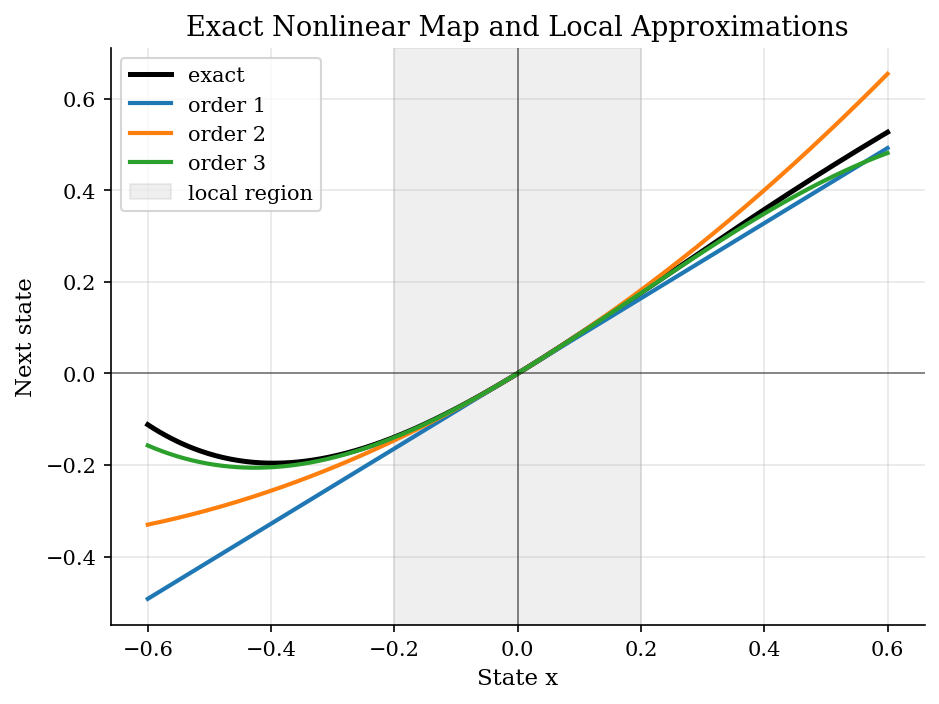
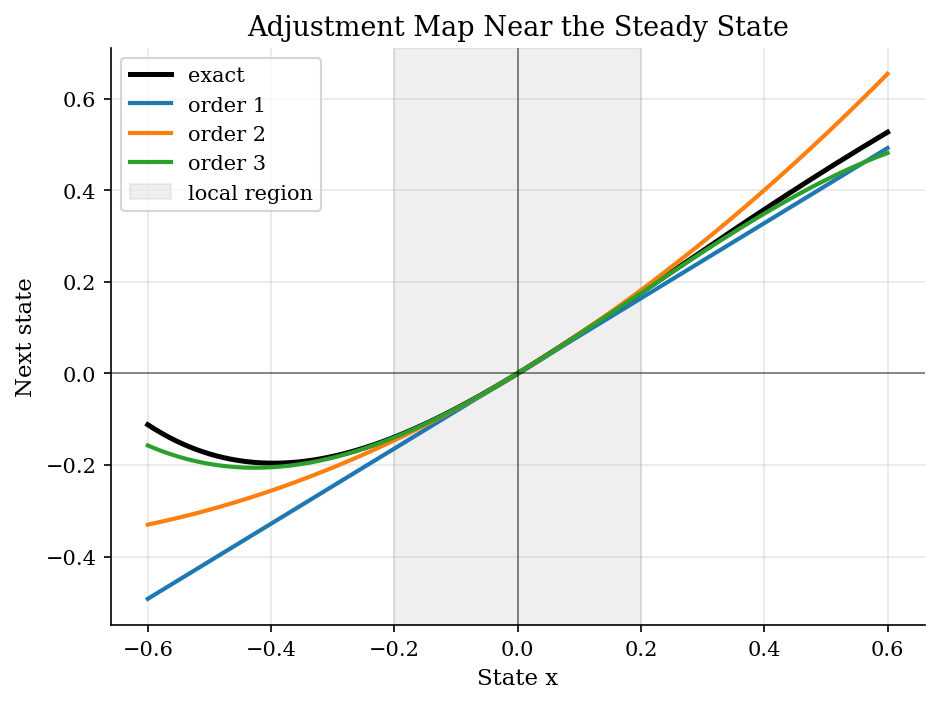
Revise perturbation linearization tutorial

Changed region(s): [[0.1853, 0.0, 0.8956, 0.0625]]

diff --git a/computational-methods/perturbation-linearization/run.py b/computational-methods/perturbation-linearization/run.py
@@ -1,10 +1,9 @@
 #!/usr/bin/env python3
-"""Perturbation around a steady state for nonlinear dynamics.
+"""Perturbation around a macro steady state.
 
-The tutorial compares first-, second-, and third-order local approximations to a
-nonlinear transition rule. It is intentionally small, so the local nature of
-perturbation methods is visible in both approximation errors and impulse
-responses.
+The tutorial compares first-, second-, and third-order local approximations to
+a nonlinear state transition. The example stays small so readers can see how
+local Taylor terms change impulse responses near a steady state.
 """
 
 import sys
@@ -125,34 +124,44 @@ def main() -> None:
     )
 
     report = ModelReport(
-        "Perturbation Around a Steady State",
-        "Local Taylor approximations for nonlinear economic dynamics and impulse responses.",
+        "Aggregate Adjustment Around a Steady State",
+        "Taylor perturbations for nonlinear macro dynamics and impulse responses.",
         include_reproduce=False,
         show_figure_captions=False,
     )
 
     report.add_overview(
-        "Macroeconomic models are often solved near a deterministic steady state. The local "
-        "object is a law of motion for deviations from that point: after a productivity, demand, "
-        "or policy shock, how does the state return toward its steady value? Perturbation "
-        "methods approximate that law of motion with a Taylor expansion.\n\n"
-        "The first-order case is the familiar linearization. It is fast and gives transparent "
-        "impulse responses, but it removes curvature and makes positive and negative shocks "
-        "mirror images. Higher-order perturbations add curvature and asymmetry while remaining "
-        "local. The exact nonlinear transition rule is kept available below so the cost of that "
-        "locality is visible."
+        "A macro model often asks what happens after an economy is pushed away from its "
+        "steady state. Think of a productivity surprise, a demand shock, or a policy change "
+        "that moves a state variable above its normal level. The researcher wants the path "
+        "back to steady state and wants to know whether an equally sized negative shock would "
+        "unwind in the same way.\n\n"
+        "The hard part is that the full nonlinear law of motion may be expensive to solve or "
+        "awkward to interpret. Perturbation replaces that law with a Taylor approximation near "
+        "the steady state. First order gives the familiar linearized impulse response. Higher "
+        "orders keep local curvature, so positive and negative shocks can produce different "
+        "adjustment paths. This tutorial keeps the exact nonlinear transition in view, which "
+        "lets us see what the local approximation gains and what it misses."
     )
 
     report.add_equations(
         r"""
-Let $x_t$ be a scalar deviation from the deterministic steady state, normalized
-so that $x=0$ is the steady state. The exact transition rule is:
+Let $x_t$ be a scalar deviation from the deterministic steady state. The
+steady state is normalized to $x=0$. The exact nonlinear transition is:
 
 $$
 F(x) = \rho x + \gamma x^2 - \eta x^3 + \kappa x^4.
 $$
 
-The first three perturbation approximations around zero are:
+The coefficients are chosen to create persistent adjustment, local curvature,
+and asymmetric responses. A Taylor perturbation of order $n$ around zero keeps
+the derivatives through order $n$:
+
+$$
+F_n(x) = \sum_{j=1}^{n} \frac{F^{(j)}(0)}{j!} x^j.
+$$
+
+For the first three orders in this example:
 
 $$
 \begin{aligned}
@@ -173,32 +182,34 @@ $$
     report.add_model_setup(
         "| Object | Value |\n"
         "|--------|-------|\n"
-        f"| Persistence $\\rho$ | {RHO:.2f} |\n"
-        f"| Quadratic term $\\gamma$ | {GAMMA:.2f} |\n"
-        f"| Cubic term $\\eta$ | {ETA:.2f} |\n"
-        f"| Fourth-order term $\\kappa$ | {KAPPA:.2f} |\n"
-        f"| Shock size | {SHOCK_SIZE:.2f} |\n"
+        f"| Persistence $\\rho$ | {RHO:.2f}, so deviations decay gradually |\n"
+        f"| Quadratic term $\\gamma$ | {GAMMA:.2f}, adding local curvature |\n"
+        f"| Cubic term $\\eta$ | {ETA:.2f}, changing the speed of large responses |\n"
+        f"| Fourth-order term $\\kappa$ | {KAPPA:.2f}, left out by third order |\n"
+        f"| Shock size | {SHOCK_SIZE:.2f} in either direction |\n"
         f"| IRF periods | {periods} |"
     )
 
     report.add_solution_method(
-        "The exercise treats the exact transition rule as a known benchmark, then truncates its "
-        "Taylor expansion at different orders. Errors are measured both pointwise and after "
-        "iterating the approximated law of motion forward.\n\n"
+        "The calculation treats the exact transition as a benchmark and asks how much of it a "
+        "local expansion recovers. The map error answers a numerical question: how close is the "
+        "approximated law of motion at nearby states? The impulse-response error answers the "
+        "economic question the researcher would usually care about: does the computed shock "
+        "path tell the same adjustment story as the nonlinear model?\n\n"
         "```text\n"
-        "Algorithm: local perturbation diagnostic\n"
-        "Input: exact law F(x), steady state x_bar = 0, approximation order n, shock epsilon\n"
-        "Output: local map errors, impulse-response errors, asymmetry diagnostic\n"
-        "1. Compute the Taylor coefficients of F around x_bar through order n\n"
-        "2. Define F_n(x) as the truncated local law of motion\n"
-        "3. Compare F_n(x) with F(x) on a local and a wider state interval\n"
-        "4. For x_0 = epsilon, iterate x_{t+1} = F_n(x_t) and compare with the exact path\n"
-        "5. Repeat for x_0 = -epsilon to check whether positive and negative shocks mirror\n"
-        "6. Interpret large errors as a warning about states far from the expansion point\n"
+        "Algorithm: perturbation check for a shock response\n"
+        "Input: nonlinear law F(x), steady state x_bar = 0, order n, shock epsilon\n"
+        "Output: approximate law F_n, map errors, IRF errors, asymmetry statistic\n"
+        "1. Differentiate F at x_bar and keep terms through order n\n"
+        "2. Build the local law F_n(x) from those Taylor coefficients\n"
+        "3. Compare F_n(x) with F(x) on a tight neighborhood and a wider interval\n"
+        "4. Starting from x_0 = epsilon, iterate x_{t+1} = F_n(x_t)\n"
+        "5. Repeat from x_0 = -epsilon and add the two response paths\n"
+        "6. Read nonzero sums as nonlinear asymmetry, not as linear adjustment\n"
         "```\n\n"
-        "This is the same logic used in larger DSGE applications: solve around a steady state, "
-        "then ask whether the local approximation is accurate enough for the shocks and states "
-        "the research question actually visits."
+        "Large DSGE systems apply the same idea to a vector of equilibrium conditions. This "
+        "scalar example strips that machinery away, leaving the main discipline: a local "
+        "solution is useful only for the shocks and states that stay near the expansion point."
     )
 
     fig1, ax1 = plt.subplots()
@@ -210,15 +221,15 @@ $$
     ax1.axvline(0.0, color="black", linewidth=0.8, alpha=0.5)
     ax1.set_xlabel("State x")
     ax1.set_ylabel("Next state")
-    ax1.set_title("Exact Nonlinear Map and Local Approximations")
+    ax1.set_title("Adjustment Map Near the Steady State")
     ax1.legend()
     report.add_figure(
         "figures/local-approximations.png",
         "Taylor approximations around the steady state",
         fig1,
         description=(
-            "All approximations agree at the steady state. Differences grow as the state moves "
-            "away from the expansion point."
+            "The curves agree at the steady state because each approximation is built there. "
+            "Away from zero, the missing curvature changes the next-period state."
         ),
     )
 
@@ -228,15 +239,16 @@ $$
         ax2.semilogy(np.abs(x_grid), np.maximum(error, 1e-14), label=f"order {order}")
     ax2.set_xlabel("Distance from steady state")
     ax2.set_ylabel("Absolute map error")
-    ax2.set_title("Local Accuracy Decays with Distance")
+    ax2.set_title("Approximation Error by Distance")
     ax2.legend()
     report.add_figure(
         "figures/local-errors.png",
         "Approximation error by distance from the expansion point",
         fig2,
         description=(
-            "Higher-order terms reduce local error, but no finite Taylor expansion is a global "
-            "solution. The question that matters is how far the model travels from the steady state."
+            "Higher-order terms lower error near the steady state. Error still rises with "
+            "distance, so the relevant accuracy check depends on the states reached by the "
+            "shock experiment."
         ),
     )
 
@@ -265,8 +277,8 @@ $$
         "Impulse responses under exact and approximated dynamics",
         fig3,
         description=(
-            "The first-order approximation is symmetric: changing the sign of the shock changes "
-            "only the sign of the response. Higher-order terms can capture asymmetric adjustment."
+            "The first-order path is symmetric by construction. Higher-order paths can let a "
+            "positive shock and a negative shock unwind at different speeds."
         ),
     )
 
@@ -285,8 +297,8 @@ $$
         "Nonlinear asymmetry in positive and negative responses",
         fig4,
         description=(
-            "For a purely linear model, positive and negative impulse responses cancel exactly. "
-            "A nonzero sum is a direct diagnostic for nonlinear asymmetry."
+            "In a linearized model, the positive and negative impulse responses cancel exactly. "
+            "A nonzero sum shows how much nonlinear asymmetry the local solution preserves."
         ),
     )
 
@@ -294,23 +306,26 @@ $$
         "tables/approximation-errors.csv",
         "Perturbation accuracy by order",
         format_table(table),
-        description="Map errors are computed directly; IRF errors compare each approximation to the exact path.",
+        description=(
+            "Map errors compare transition rules. IRF errors compare the full adjustment path "
+            "after the same shock."
+        ),
     )
 
     report.add_results(
-        "The first-order approximation is accurate very close to the steady state, but it misses "
-        "curvature and asymmetric responses. The second and third orders reduce local error and "
-        "track the nonlinear impulse responses more closely for the shock size used here. The "
-        "asymmetry plot is the clearest economic diagnostic: a linearized model forces the "
-        "positive and negative responses to cancel, even when the nonlinear economy does not."
+        "The first-order approximation works well in a tight neighborhood of the steady state, "
+        "but it misses the curvature that shapes asymmetric adjustment. Second and third order "
+        "terms reduce local map error and follow the nonlinear impulse responses more closely "
+        "for this shock size. The asymmetry plot gives the most direct economic reading: the "
+        "linearized model forces the positive and negative responses to cancel, while the "
+        "nonlinear economy does not."
     )
 
     report.add_takeaway(
-        "Linearization is often enough for small deviations, but its symmetry is a substantive "
+        "Linearization is often enough for small deviations, but its symmetry is an economic "
         "restriction. Higher-order perturbation adds curvature without solving the full global "
-        "model. The practical discipline is to check where the simulated or impulse-response "
-        "path actually goes. Local approximations are only as credible as the neighborhood they "
-        "are asked to cover."
+        "model. The practical check is simple: trace the simulated or impulse-response path and "
+        "ask whether it remains in the neighborhood where the local approximation is accurate."
     )
 
     report.add_references(

diff --git a/computational-methods/perturbation-linearization/README.md b/computational-methods/perturbation-linearization/README.md
@@ -1,23 +1,31 @@
-# Perturbation Around a Steady State
+# Aggregate Adjustment Around a Steady State
 
-> Local Taylor approximations for nonlinear economic dynamics and impulse responses.
+> Taylor perturbations for nonlinear macro dynamics and impulse responses.
 
 ## Overview
 
-Macroeconomic models are often solved near a deterministic steady state. The local object is a law of motion for deviations from that point: after a productivity, demand, or policy shock, how does the state return toward its steady value? Perturbation methods approximate that law of motion with a Taylor expansion.
+A macro model often asks what happens after an economy is pushed away from its steady state. Think of a productivity surprise, a demand shock, or a policy change that moves a state variable above its normal level. The researcher wants the path back to steady state and wants to know whether an equally sized negative shock would unwind in the same way.
 
-The first-order case is the familiar linearization. It is fast and gives transparent impulse responses, but it removes curvature and makes positive and negative shocks mirror images. Higher-order perturbations add curvature and asymmetry while remaining local. The exact nonlinear transition rule is kept available below so the cost of that locality is visible.
+The hard part is that the full nonlinear law of motion may be expensive to solve or awkward to interpret. Perturbation replaces that law with a Taylor approximation near the steady state. First order gives the familiar linearized impulse response. Higher orders keep local curvature, so positive and negative shocks can produce different adjustment paths. This tutorial keeps the exact nonlinear transition in view, which lets us see what the local approximation gains and what it misses.
 
 ## Equations
 
-Let $x_t$ be a scalar deviation from the deterministic steady state, normalized
-so that $x=0$ is the steady state. The exact transition rule is:
+Let $x_t$ be a scalar deviation from the deterministic steady state. The
+steady state is normalized to $x=0$. The exact nonlinear transition is:
 
 $$
 F(x) = \rho x + \gamma x^2 - \eta x^3 + \kappa x^4.
 $$
 
-The first three perturbation approximations around zero are:
+The coefficients are chosen to create persistent adjustment, local curvature,
+and asymmetric responses. A Taylor perturbation of order $n$ around zero keeps
+the derivatives through order $n$:
+
+$$
+F_n(x) = \sum_{j=1}^{n} \frac{F^{(j)}(0)}{j!} x^j.
+$$
+
+For the first three orders in this example:
 
 $$
 \begin{aligned}
@@ -37,50 +45,50 @@ $$
 
 | Object | Value |
 |--------|-------|
-| Persistence $\rho$ | 0.82 |
-| Quadratic term $\gamma$ | 0.45 |
-| Cubic term $\eta$ | 0.80 |
-| Fourth-order term $\kappa$ | 0.35 |
-| Shock size | 0.18 |
+| Persistence $\rho$ | 0.82, so deviations decay gradually |
+| Quadratic term $\gamma$ | 0.45, adding local curvature |
+| Cubic term $\eta$ | 0.80, changing the speed of large responses |
+| Fourth-order term $\kappa$ | 0.35, left out by third order |
+| Shock size | 0.18 in either direction |
 | IRF periods | 28 |
 
 ## Solution Method
 
-The exercise treats the exact transition rule as a known benchmark, then truncates its Taylor expansion at different orders. Errors are measured both pointwise and after iterating the approximated law of motion forward.
+The calculation treats the exact transition as a benchmark and asks how much of it a local expansion recovers. The map error answers a numerical question: how close is the approximated law of motion at nearby states? The impulse-response error answers the economic question the researcher would usually care about: does the computed shock path tell the same adjustment story as the nonlinear model?
 
 ```text
-Algorithm: local perturbation diagnostic
-Input: exact law F(x), steady state x_bar = 0, approximation order n, shock epsilon
-Output: local map errors, impulse-response errors, asymmetry diagnostic
-1. Compute the Taylor coefficients of F around x_bar through order n
-2. Define F_n(x) as the truncated local law of motion
-3. Compare F_n(x) with F(x) on a local and a wider state interval
-4. For x_0 = epsilon, iterate x_{t+1} = F_n(x_t) and compare with the exact path
-5. Repeat for x_0 = -epsilon to check whether positive and negative shocks mirror
-6. Interpret large errors as a warning about states far from the expansion point
+Algorithm: perturbation check for a shock response
+Input: nonlinear law F(x), steady state x_bar = 0, order n, shock epsilon
+Output: approximate law F_n, map errors, IRF errors, asymmetry statistic
+1. Differentiate F at x_bar and keep terms through order n
+2. Build the local law F_n(x) from those Taylor coefficients
+3. Compare F_n(x) with F(x) on a tight neighborhood and a wider interval
+4. Starting from x_0 = epsilon, iterate x_{t+1} = F_n(x_t)
+5. Repeat from x_0 = -epsilon and add the two response paths
+6. Read nonzero sums as nonlinear asymmetry, not as linear adjustment
 ```
 
-This is the same logic used in larger DSGE applications: solve around a steady state, then ask whether the local approximation is accurate enough for the shocks and states the research question actually visits.
+Large DSGE systems apply the same idea to a vector of equilibrium conditions. This scalar example strips that machinery away, leaving the main discipline: a local solution is useful only for the shocks and states that stay near the expansion point.
 
 ## Results
 
-All approximations agree at the steady state. Differences grow as the state moves away from the expansion point.
+The curves agree at the steady state because each approximation is built there. Away from zero, the missing curvature changes the next-period state.
 
 <img src="figures/local-approximations.png" alt="Taylor approximations around the steady state" width="80%">
 
-Higher-order terms reduce local error, but no finite Taylor expansion is a global solution. The question that matters is how far the model travels from the steady state.
+Higher-order terms lower error near the steady state. Error still rises with distance, so the relevant accuracy check depends on the states reached by the shock experiment.
 
 <img src="figures/local-errors.png" alt="Approximation error by distance from the expansion point" width="80%">
 
-The first-order approximation is symmetric: changing the sign of the shock changes only the sign of the response. Higher-order terms can capture asymmetric adjustment.
+The first-order path is symmetric by construction. Higher-order paths can let a positive shock and a negative shock unwind at different speeds.
 
 <img src="figures/impulse-responses.png" alt="Impulse responses under exact and approximated dynamics" width="80%">
 
-For a purely linear model, positive and negative impulse responses cancel exactly. A nonzero sum is a direct diagnostic for nonlinear asymmetry.
+In a linearized model, the positive and negative impulse responses cancel exactly. A nonzero sum shows how much nonlinear asymmetry the local solution preserves.
 
 <img src="figures/asymmetry.png" alt="Nonlinear asymmetry in positive and negative responses" width="80%">
 
-Map errors are computed directly; IRF errors compare each approximation to the exact path.
+Map errors compare transition rules. IRF errors compare the full adjustment path after the same shock.
 
 **Perturbation accuracy by order**
 
@@ -93,11 +101,11 @@ Map errors are computed directly; IRF errors compare each approximation to the e
 |       3 | local abs(x) <= 0.20 |        0.000542 |           3.47e-05 |            0.000315 |            0.000125 |
 |       3 | wide abs(x) <= 0.60  |        0.0454   |           0.00286  |            0.000315 |            0.000125 |
 
-The first-order approximation is accurate very close to the steady state, but it misses curvature and asymmetric responses. The second and third orders reduce local error and track the nonlinear impulse responses more closely for the shock size used here. The asymmetry plot is the clearest economic diagnostic: a linearized model forces the positive and negative responses to cancel, even when the nonlinear economy does not.
+The first-order approximation works well in a tight neighborhood of the steady state, but it misses the curvature that shapes asymmetric adjustment. Second and third order terms reduce local map error and follow the nonlinear impulse responses more closely for this shock size. The asymmetry plot gives the most direct economic reading: the linearized model forces the positive and negative responses to cancel, while the nonlinear economy does not.
 
 ## Takeaway
 
-Linearization is often enough for small deviations, but its symmetry is a substantive restriction. Higher-order perturbation adds curvature without solving the full global model. The practical discipline is to check where the simulated or impulse-response path actually goes. Local approximations are only as credible as the neighborhood they are asked to cover.
+Linearization is often enough for small deviations, but its symmetry is an economic restriction. Higher-order perturbation adds curvature without solving the full global model. The practical check is simple: trace the simulated or impulse-response path and ask whether it remains in the neighborhood where the local approximation is accurate.
 
 ## References
 

diff --git a/README.md b/README.md
@@ -157,7 +157,7 @@ These tutorials are standalone references for optimization, approximation, simul
 | [<img src="computational-methods/numerical-optimization/figures/thumb.png" width="160">](computational-methods/numerical-optimization/figures/optimizer-paths.png) | **[Latent-Regime Likelihoods and Optimizer Basins](computational-methods/numerical-optimization/)** | Estimate parameters in a latent-regime likelihood where two regions fit the data. Multi-start local optimization and global search show when a reported estimate depends on the likelihood basin. |
 | [<img src="computational-methods/simulation-based-estimation/figures/thumb.png" width="160">](computational-methods/simulation-based-estimation/figures/criterion-surfaces.png) | **[Estimating a Search Acceptance Rule by Simulation](computational-methods/simulation-based-estimation/)** | Estimate a reservation-wage rule from wage offers and worker acceptances. MSM matches economic moments, while indirect inference matches an auxiliary acceptance model. |
 | [<img src="computational-methods/projection-methods/figures/thumb.png" width="160">](computational-methods/projection-methods/figures/chebyshev-basis.png) | **[Growth-Model Capital Policy by Chebyshev Projection](computational-methods/projection-methods/)** | Study the planner's capital-saving rule in a deterministic growth model. Chebyshev collocation stores the smooth policy in a few coefficients, and Euler residuals check the fit between nodes. |
-| [<img src="computational-methods/perturbation-linearization/figures/thumb.png" width="160">](computational-methods/perturbation-linearization/figures/local-approximations.png) | **[Perturbation Around a Steady State](computational-methods/perturbation-linearization/)** | Linearize nonlinear dynamics near a steady state. Higher-order terms show where curvature and asymmetric responses start to matter. |
+| [<img src="computational-methods/perturbation-linearization/figures/thumb.png" width="160">](computational-methods/perturbation-linearization/figures/local-approximations.png) | **[Aggregate Adjustment Around a Steady State](computational-methods/perturbation-linearization/)** | Study how a state variable returns after positive and negative macro shocks. Taylor perturbations approximate the nonlinear law of motion and show when curvature changes impulse responses. |
 | [<img src="computational-methods/metropolis-hastings/figures/thumb.png" width="160">](computational-methods/metropolis-hastings/figures/mh-walk.png) | **[Metropolis-Hastings for a Bimodal Posterior](computational-methods/metropolis-hastings/)** | Diagnose how a finite MCMC run explores a two-mode posterior. Proposal tuning changes acceptance, mode switching, and effective sample size. |
 | [<img src="computational-methods/kalman-filter/figures/thumb.png" width="160">](computational-methods/kalman-filter/figures/simulated-signal.png) | **[Kalman Filtering a Latent Economic State](computational-methods/kalman-filter/)** | Filter a latent economic state from noisy signals. Prediction errors update the state estimate, uncertainty, and likelihood together. |
 | [<img src="computational-methods/particle-filter/figures/thumb.png" width="160">](computational-methods/particle-filter/figures/filter-comparison.png) | **[Particle Filtering Latent Economic States](computational-methods/particle-filter/)** | Approximate latent-state filtering with weighted simulated particles. Proposal choices drive weight collapse and Monte Carlo error. |